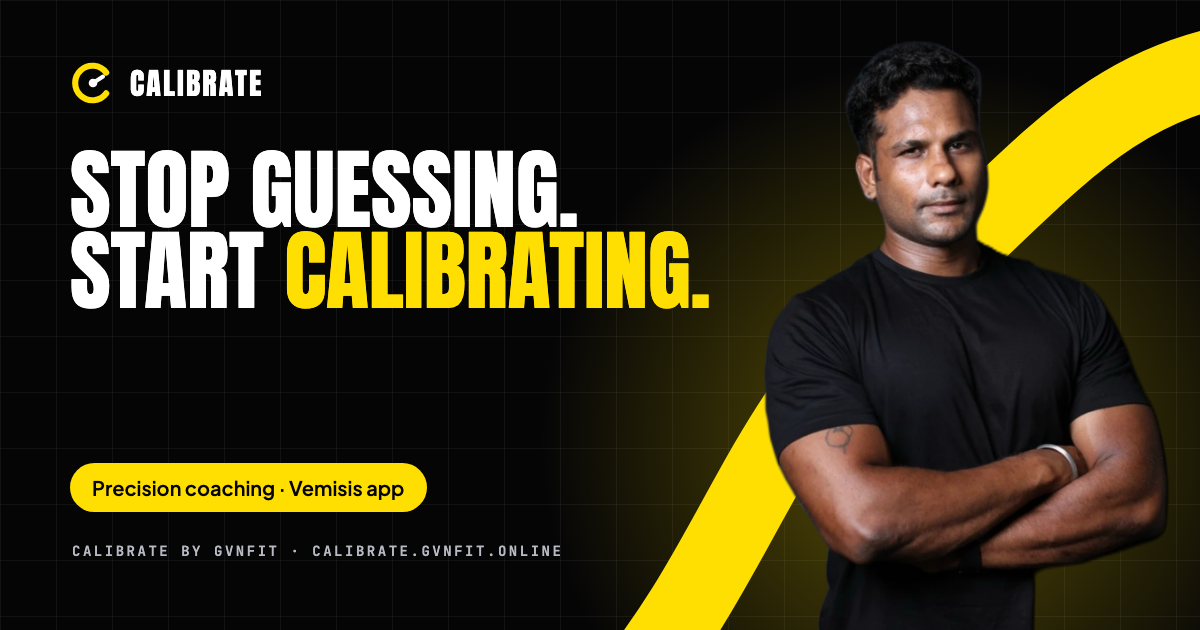
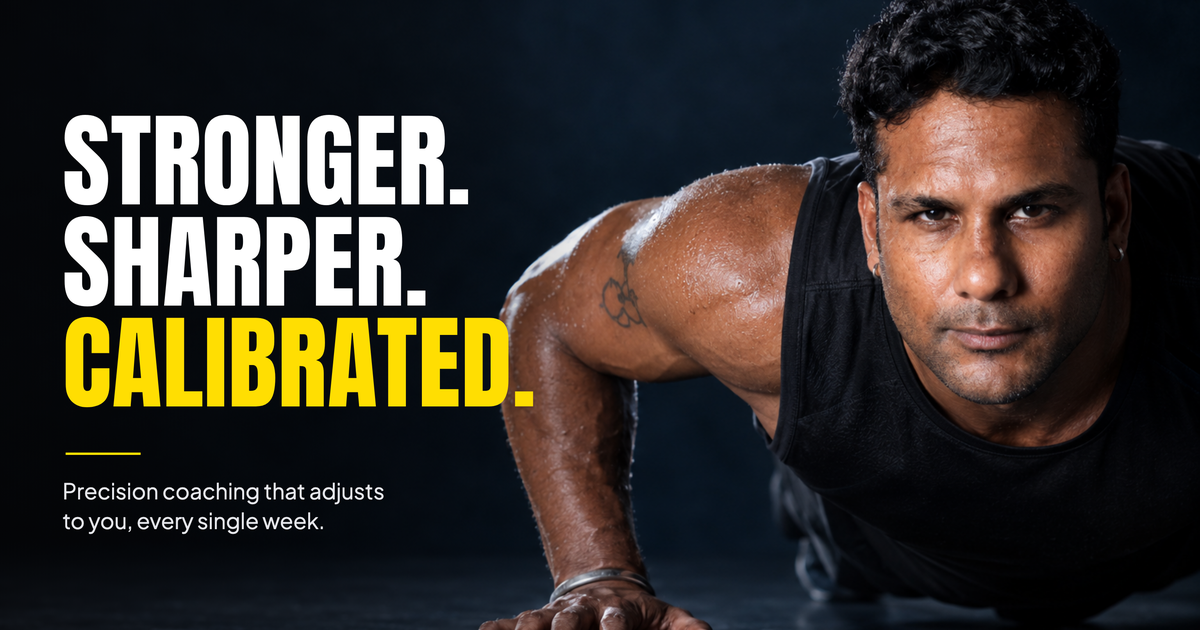
New campaign photos, world cities, App Store link (#3)
* Use the new campaign photos of Guhay across the site

Home coach section, goal cards, /coaches banner, /programmes header,
/pricing persona cards and the social share image now use the
October 2026 photo set (real photos re-lit and re-set, face unchanged).

* Show world cities instead of Indian cities on the coaches page

The city ticker now lists New York, London, Dubai, Singapore, Sydney,
Tokyo, Dublin, Kuala Lumpur and Durban (client countries), and the
coach tag reads 'Coaching clients worldwide'.

* Keep the coaching team visible and add the App Store link

- /coaches falls back to a built-in copy of the team when Supabase is
  unreachable or empty, so the coaches never disappear.
- Coach locations that name an Indian city now read 'Online coaching'
  (head coach: 'Coaching clients worldwide').
- Vemisis App Store link added to the footer, the home app section and
  the /features header.

* Blend the coach photo into the yellow 'Book your free call' panel

New cutout re-lit for a yellow set (face unchanged) with clean edges,
and the dark drop-shadow halo replaced by a soft warm shadow.

---------

diff --git a/lib/team.ts b/lib/team.ts
@@ -1,17 +1,95 @@
 import { supabaseAdmin } from "@/lib/supabase";
 import type { TeamMember } from "@/lib/supabase";
 
+// The site presents CALIBRATE as a worldwide coaching team, so Indian city
+// names are not shown on coach cards. Locations that name one are replaced,
+// and credential lines that only state a city are dropped.
+const INDIAN_PLACE = /\b(chennai|bangalore|bengaluru|mumbai|coimbatore|hyderabad|delhi|pune|kochi|madurai|tamil nadu|karnataka|kerala|maharashtra|india)\b/i;
+
+function worldwide(m: TeamMember): TeamMember {
+  const fallback = m.category === "head_coach" ? "Coaching clients worldwide" : "Online coaching";
+  return {
+    ...m,
+    location: m.location && INDIAN_PLACE.test(m.location) ? fallback : m.location,
+    credentials: m.credentials ? m.credentials.filter((c) => !/^based in\b/i.test(c) || !INDIAN_PLACE.test(c)) : m.credentials,
+  };
+}
+
+// Shown when Supabase is unreachable or returns nothing, so the team never
+// disappears from /coaches. Mirrors the live team_members rows (Oct 2026).
+const FALLBACK_TEAM: TeamMember[] = [
+  {
+    id: "fallback-guhay", category: "head_coach", order_index: 0, name: "Guhayavarman", handle: "@fitguhay",
+    role: "Founder & Head Coach", location: "Coaching clients worldwide", experience: null, specialisation: null,
+    credentials_line: null, description: null,
+    bio: [
+      "I started CALIBRATE because I kept seeing the same pattern: smart, motivated people failing to reach their goals, not from lack of effort, but from lack of the right system. Engineers, founders, product managers putting in the work but getting nowhere.",
+      "The fitness industry profits from confusion. CALIBRATE is built on the opposite principle, the same data-driven frameworks used in precision engineering, applied to body optimisation. Your body is a process. Processes can be optimised.",
+    ],
+    credentials: [
+      "Level 4 Personal Training Certification",
+      "Sports Nutrition Specialist",
+      "DMAIC-certified performance protocol",
+      "Competitive athlete background",
+    ],
+    stats: [
+      { value: "45", label: "Active clients" },
+      { value: "5+", label: "Years coaching" },
+      { value: "10", label: "Countries reached" },
+    ],
+    color: "#FFDE02", initials: "G", photo_url: null, active: true,
+  },
+  {
+    id: "fallback-ashok", category: "trainer", order_index: 1, name: "Ashok", handle: null,
+    role: "Personal Trainer - Certified Strength & Conditioning Coach", location: "Online coaching", experience: "10+ years",
+    specialisation: "Strength & Conditioning", credentials_line: null,
+    description: "Ashok brings over a decade of strength and conditioning expertise to CALIBRATE. As an online trainer, he designs progressive programming for clients across all levels, from foundational strength work to performance-focused conditioning cycles.",
+    bio: null, credentials: null, stats: null, color: null, initials: "A", photo_url: null, active: true,
+  },
+  {
+    id: "fallback-rajavel", category: "trainer", order_index: 2, name: "Rajavel", handle: null,
+    role: "Certified Personal Trainer", location: "Online coaching", experience: "8+ years",
+    specialisation: "Personal Training", credentials_line: null,
+    description: "Rajavel is a certified personal trainer with eight years of experience working with clients across diverse goals and backgrounds. His coaching is grounded in building sustainable habits and consistent progress, no extremes, no shortcuts.",
+    bio: null, credentials: null, stats: null, color: null, initials: "R", photo_url: null, active: true,
+  },
+  {
+    id: "fallback-balaji", category: "trainer", order_index: 3, name: "Balaji", handle: null,
+    role: "NASM CPT - Online Trainer", location: "Online coaching", experience: "5+ years",
+    specialisation: "NASM Certified Training", credentials_line: null,
+    description: "Balaji is NASM-certified and specialises in online coaching, delivering structured, evidence-based programmes remotely. His methodical approach ensures clients get expert-level training regardless of where they are based.",
+    bio: null, credentials: null, stats: null, color: null, initials: "B", photo_url: null, active: true,
+  },
+  {
+    id: "fallback-naren", category: "specialist", order_index: 1, name: "Naren", handle: null,
+    role: "Nutritionist & Fitness Data Analyst", location: "Malaysia", experience: null, specialisation: null,
+    credentials_line: "Nutritionist - Fitness Data Analyst - 10+ years",
+    description: "Naren combines nutritional expertise with data-driven fitness analysis, a rare combination that lets him translate raw client metrics into precise dietary strategies. With over a decade of experience, he handles complex nutrition protocols and performance-level goals.",
+    bio: null, credentials: null, stats: null, color: null, initials: "N", photo_url: "/images/coaches/naren.webp", active: true,
+  },
+  {
+    id: "fallback-karthika", category: "specialist", order_index: 2, name: "Karthika D'Souza", handle: null,
+    role: "Dietician & Clinical Health Analyst", location: "Malaysia", experience: null, specialisation: null,
+    credentials_line: "Registered Dietician - Clinical Health Analyst - 10+ years",
+    description: "Karthika brings clinical-grade expertise to the team, managing medical dietary requirements, health risk analysis, and evidence-based nutrition intervention for clients who need specialist-level dietary support.",
+    bio: null, credentials: null, stats: null, color: null, initials: "K", photo_url: "/images/coaches/karthika-dsouza.webp", active: true,
+  },
+];
+
 export async function getTeamMembers(): Promise<TeamMember[]> {
-  const supabase = supabaseAdmin();
-  const { data, error } = await supabase
-    .from("team_members")
-    .select("*")
-    .eq("active", true)
-    .order("category", { ascending: true })
-    .order("order_index", { ascending: true });
-  if (error) {
-    console.error("[getTeamMembers]", error.message);
-    return [];
+  try {
+    const supabase = supabaseAdmin();
+    const { data, error } = await supabase
+      .from("team_members")
+      .select("*")
+      .eq("active", true)
+      .order("category", { ascending: true })
+      .order("order_index", { ascending: true });
+    if (error) throw new Error(error.message);
+    if (!data || data.length === 0) return FALLBACK_TEAM;
+    return (data as TeamMember[]).map(worldwide);
+  } catch (e) {
+    console.error("[getTeamMembers] using fallback team:", e instanceof Error ? e.message : e);
+    return FALLBACK_TEAM;
   }
-  return (data ?? []) as TeamMember[];
 }

diff --git a/app/coaches/page.tsx b/app/coaches/page.tsx
@@ -1,7 +1,7 @@
 import type { Metadata } from "next";
 export const metadata: Metadata = {
   title: "Coaching Team",
-  description: "Meet the CALIBRATE team, head coach Guhayavarman, certified trainers across Chennai, Bangalore, and Coimbatore, and on-call nutrition specialists. The people behind your protocol.",
+  description: "Meet the CALIBRATE team, head coach Guhayavarman, certified trainers and on-call nutrition specialists, coaching clients in 10 countries. The people behind your protocol.",
   alternates: { canonical: "/coaches" },
   openGraph: {
     ...ogBase,
@@ -57,7 +57,7 @@ function CoachAvatar({ member, glow }: { member: TeamMember; glow?: boolean }) {
   return <span className="co-av" style={style}>{member.initials || member.name.charAt(0)}</span>;
 }
 
-const locations = ["Chennai", "Bangalore", "Hyderabad", "Coimbatore"];
+const locations = ["New York", "London", "Dubai", "Singapore", "Sydney", "Tokyo", "Dublin", "Kuala Lumpur", "Durban"];
 
 const values = [
   {
@@ -85,7 +85,7 @@ const values = [
 export default async function AboutPage() {
   const members = await getTeamMembers();
   const headCoach = members.find((m) => m.category === "head_coach") ?? {
-    name: "Guhayavarman", handle: "@fitguhay", role: "Founder & Head Coach", location: "Chennai, TN",
+    name: "Guhayavarman", handle: "@fitguhay", role: "Founder & Head Coach", location: "Coaching worldwide",
     bio: [] as string[], credentials: [] as string[], stats: [] as { value: string; label: string }[],
     color: "#FFDE02", initials: "G",
   };
@@ -99,12 +99,12 @@ export default async function AboutPage() {
         <section className="co-open" aria-labelledby="co-title">
           <div className="co-open-media">
             <Image
-              src="/media/coach/guhay-090.webp"
+              src="/media/campaign/coach-gym-wide.webp"
               alt={`${headCoach.name}, ${headCoach.role ?? "Head Coach"}`}
               fill
               preload
               sizes="(max-width: 900px) 100vw, 62vw"
-              style={{ objectFit: "cover", objectPosition: "50% 30%" }}
+              style={{ objectFit: "cover", objectPosition: "75% 30%" }}
             />
             <div className="co-open-shade" aria-hidden="true" />
           </div>
@@ -123,7 +123,7 @@ export default async function AboutPage() {
           </div>
         </section>
 
-        <section className="ps" aria-label="Where our coaches are based" style={{ padding: "26px 0", borderTop: "1px solid var(--line)", borderBottom: "1px solid var(--line)", background: "#08080A" }}>
+        <section className="ps" aria-label="Cities where CALIBRATE clients train" style={{ padding: "26px 0", borderTop: "1px solid var(--line)", borderBottom: "1px solid var(--line)", background: "#08080A" }}>
           <div className="mq" style={{ ["--mq-dur" as string]: "30s" }}>
             <div className="mq-track">
               {[...locations, ...locations, ...locations, ...locations].map((l, i) => (

diff --git a/app/pricing/PricingClient.tsx b/app/pricing/PricingClient.tsx
@@ -59,9 +59,9 @@ const inclusions = [
 ];
 
 const profiles = [
-  { role: "Engineers & Developers", detail: "Complex problem-solvers who prefer systems over motivation.", img: "/media/life/me-coffee-laptop.webp" },
-  { role: "Product Managers", detail: "Detail-oriented professionals who want measurable outcomes.", img: "/media/life/me-tablet-review.webp" },
-  { role: "Consultants & Founders", detail: "High travel, high pressure. The protocol adapts to your schedule.", img: "/media/life/me-steps-watch.webp" },
+  { role: "Engineers & Developers", detail: "Complex problem-solvers who prefer systems over motivation.", img: "/media/campaign/persona-engineers-cafe.webp" },
+  { role: "Product Managers", detail: "Detail-oriented professionals who want measurable outcomes.", img: "/media/campaign/persona-pm-office.webp" },
+  { role: "Consultants & Founders", detail: "High travel, high pressure. The protocol adapts to your schedule.", img: "/media/campaign/persona-founders-lounge.webp" },
 ];
 
 const faqs: FaqItem[] = [
@@ -147,7 +147,7 @@ export default function PricingClient() {
             <div className="pp-grid">
               {profiles.map((p, i) => (
                 <article key={p.role} className="pp-card rv" style={{ ["--d" as string]: `${i * 100}ms` }}>
-                  <Image src={p.img} alt="" fill sizes="(max-width: 800px) 100vw, 680px" style={{ objectFit: "cover" }} />
+                  <Image src={p.img} alt="" fill sizes="(max-width: 800px) 100vw, 680px" style={{ objectFit: "cover", objectPosition: "50% 22%" }} />
                   <div className="pp-shade" />
                   <div className="pp-body">
                     <h3 className="display-sm">{p.role}</h3>

diff --git a/components/shared/AppStoreBadge.tsx b/components/shared/AppStoreBadge.tsx
@@ -1,0 +1,29 @@
+import { APP_STORE_URL } from "@/lib/appLinks";
+
+// "Download on the App Store" button for the Vemisis iPhone app.
+export default function AppStoreBadge({ size = "md" }: { size?: "sm" | "md" }) {
+  const sm = size === "sm";
+  return (
+    <a
+      href={APP_STORE_URL}
+      target="_blank"
+      rel="noopener noreferrer"
+      className="asb"
+      aria-label="Download Vemisis on the App Store"
+      style={{
+        display: "inline-flex", alignItems: "center", gap: sm ? 8 : 10,
+        padding: sm ? "7px 14px 7px 11px" : "10px 20px 10px 16px",
+        borderRadius: sm ? 10 : 12, background: "#000", color: "#fff",
+        border: "1px solid rgba(255,255,255,0.28)", textDecoration: "none", lineHeight: 1,
+      }}
+    >
+      <svg width={sm ? 18 : 24} height={sm ? 22 : 29} viewBox="0 0 814 1000" aria-hidden="true" fill="#fff">
+        <path d="M788 341c-6 4-108 62-108 190 0 148 130 200 134 202-1 3-21 72-69 142-43 62-88 124-156 124s-86-40-165-40c-77 0-104 41-166 41s-106-58-156-128C44 790 0 669 0 554c0-185 120-283 239-283 63 0 115 41 155 41 38 0 97-44 169-44 27 0 126 3 192 98l33-25zM554 168c30-35 51-84 51-133 0-7-1-14-2-19-48 2-105 32-140 72-27 31-53 80-53 130 0 8 1 15 2 18 3 1 8 1 13 1 43 0 97-29 129-69z"/>
+      </svg>
+      <span style={{ display: "flex", flexDirection: "column", gap: 2 }}>
+        <span style={{ fontSize: sm ? 9 : 11, letterSpacing: "0.02em", opacity: 0.9 }}>Download on the</span>
+        <span style={{ fontSize: sm ? 15 : 20, fontWeight: 600, letterSpacing: "-0.01em" }}>App Store</span>
+      </span>
+    </a>
+  );
+}

diff --git a/components/landing/FinalCta.tsx b/components/landing/FinalCta.tsx
@@ -29,10 +29,10 @@ export default function FinalCta() {
 
           <div className="fcta-coach">
             <Image
-              src="/media/coach/cut-163.webp"
+              src="/media/campaign/cta-coach-cutout.webp"
               alt="Coach Guhayavarman checking the Vemisis app on his phone"
-              width={739}
-              height={1400}
+              width={753}
+              height={1411}
               sizes="(max-width: 900px) 70vw, 460px"
               style={{ width: "100%", height: "auto" }}
             />
@@ -64,7 +64,7 @@ export default function FinalCta() {
         .fcta-btn:hover svg, .fcta-link:hover svg { transform: translateX(3px); }
         .fcta-link { position: relative; display: inline-flex; align-items: center; gap: 8px; color: #050506; font-weight: 800; font-size: 14.5px; text-decoration: none; border-bottom: 2px solid #050506; padding-bottom: 2px; }
         .fcta-link::before { content: ""; position: absolute; inset: -10px -6px; }
-        .fcta-coach { align-self: end; justify-self: center; width: 100%; max-width: 360px; margin-top: 80px; filter: drop-shadow(0 30px 40px rgba(0,0,0,0.35)); }
+        .fcta-coach { align-self: end; justify-self: center; width: 100%; max-width: 360px; margin-top: 80px; filter: drop-shadow(0 18px 26px rgba(92,70,0,0.28)) drop-shadow(0 2px 4px rgba(60,45,0,0.18)); }
         @media (max-width: 900px) {
           .fcta-panel { grid-template-columns: 1fr; padding: 0 28px; min-height: 0; }
           .fcta-copy { padding: 64px 0 8px; }

diff --git a/components/landing/Goals.tsx b/components/landing/Goals.tsx
@@ -7,22 +7,22 @@ const goals = [
     title: "Fat Loss",
     line: "Drop body fat while holding onto every bit of muscle, without the crash-diet spiral.",
     points: ["Custom calorie and macro targets", "Strength-preserving training split", "Weekly check-in adjustments"],
-    img: "/media/life/me-park-run.webp",
-    alt: "Coach running outdoors at sunrise",
+    img: "/media/campaign/goal-fatloss-rooftop.webp",
+    alt: "Coach Guhayavarman on a rooftop at sunrise",
   },
   {
     title: "Muscle Gain",
     line: "A structured hypertrophy programme with progressive overload tracked every session.",
     points: ["Progressive overload tracking", "Surplus calibrated to your metabolism", "Video form checks on request"],
-    img: "/media/life/me-bench.webp",
-    alt: "Coach training on the bench press",
+    img: "/media/campaign/goal-muscle-pushup.webp",
+    alt: "Coach Guhayavarman holding a low push-up",
   },
   {
     title: "Recomposition",
     line: "Lose fat and build muscle at the same time. The hardest goal to programme, and the one CALIBRATE was built for.",
     points: ["Nutrient timing around training", "Bi-weekly composition scans", "Slowest, most rewarding path"],
-    img: "/media/life/me-deadlift.webp",
-    alt: "Coach performing a heavy deadlift",
+    img: "/media/campaign/goal-recomp-gymfloor.webp",
+    alt: "Coach Guhayavarman standing on the gym floor",
   },
 ];
 

diff --git a/components/landing/Coach.tsx b/components/landing/Coach.tsx
@@ -23,8 +23,8 @@ export default function Coach() {
           <div className="coach-frame" aria-hidden="true" />
           <div className="coach-img">
             <Image
-              src="/media/coach/guhay-016.webp"
-              alt="Guhayavarman, founder and head coach of CALIBRATE, in a black t-shirt with arms crossed"
+              src="/media/campaign/about-portrait.webp"
+              alt="Guhayavarman, founder and head coach of CALIBRATE, in a black t-shirt in warm window light"
               fill
               sizes="(max-width: 900px) 90vw, 520px"
               style={{ objectFit: "cover", objectPosition: "50% 20%" }}
@@ -32,7 +32,7 @@ export default function Coach() {
           </div>
           <div className="float-card coach-tag bob-2">
             <Image src="/media/brand/gvnfit-wordmark-white.png" alt="Guhayavarman Fitness" width={150} height={19} style={{ height: "auto" }} />
-            <p className="mono c-muted" style={{ marginTop: 8 }}>Chennai, Tamil Nadu</p>
+            <p className="mono c-muted" style={{ marginTop: 8 }}>Coaching clients worldwide</p>
           </div>
         </div>
 

diff --git a/app/features/page.tsx b/app/features/page.tsx
@@ -1,4 +1,5 @@
 import type { Metadata } from "next";
+import { APP_STORE_URL } from "@/lib/appLinks";
 import Image from "next/image";
 import Navigation from "@/components/layout/Navigation";
 import Footer from "@/components/layout/Footer";
@@ -104,7 +105,7 @@ export default function FeaturesPage() {
           lead="Vemisis is the training app built for CALIBRATE clients. Open it, see today's session and targets, log in seconds, and let your coach handle the adjustments."
           ctas={[
             { label: "Book your free call", href: "/book" },
-            { label: "How the method works", href: "/how-it-works", variant: "secondary" },
+            { label: "Download on the App Store", href: APP_STORE_URL, variant: "secondary" },
           ]}
           visual={
             <div className="ft-hero-vis">

diff --git a/components/landing/AppSection.tsx b/components/landing/AppSection.tsx
@@ -2,6 +2,7 @@
 
 import Image from "next/image";
 import Link from "next/link";
+import AppStoreBadge from "@/components/shared/AppStoreBadge";
 import { useRef } from "react";
 import { motion, useReducedMotion, useScroll, useTransform } from "framer-motion";
 import { Arrow, Device } from "./ui";
@@ -103,7 +104,8 @@ export default function AppSection() {
           ))}
         </div>
 
-        <div style={{ display: "flex", justifyContent: "center", marginTop: 48 }}>
+        <div style={{ display: "flex", justifyContent: "center", alignItems: "center", gap: 16, flexWrap: "wrap", marginTop: 48 }}>
+          <AppStoreBadge />
           <Link href="/features" className="btn-secondary">See everything inside Vemisis <Arrow /></Link>
         </div>
       </div>

diff --git a/components/layout/Footer.tsx b/components/layout/Footer.tsx
@@ -1,4 +1,5 @@
 import Link from "next/link";
+import AppStoreBadge from "@/components/shared/AppStoreBadge";
 import Image from "next/image";
 import Logo from "./Logo";
 import FooterWord from "./FooterWord";
@@ -53,6 +54,7 @@ export default function Footer() {
                 <p className="mono c-accent" style={{ marginBottom: 4 }}>The training app</p>
                 <p style={{ fontSize: 14, fontWeight: 700, color: "#fff" }}>Vemisis, included with every plan</p>
                 <p style={{ fontSize: 12.5, color: "var(--text-muted)" }}>Built for iPhone and Android</p>
+                <div style={{ marginTop: 12 }}><AppStoreBadge size="sm" /></div>
               </div>
             </div>
           </div>

diff --git a/app/programmes/page.tsx b/app/programmes/page.tsx
@@ -40,7 +40,7 @@ export default function ProgrammesPage() {
           visual={
             <figure className="pg-hero-visual">
               <div className="pg-hero-img">
-                <Image src="/media/life/me-chalk.webp" alt="Guhay chalking up before a heavy lift" fill preload sizes="(max-width: 900px) 90vw, 460px" style={{ objectFit: "cover" }} />
+                <Image src="/media/campaign/programmes-jump.webp" alt="Coach Guhayavarman mid jump in a dark studio" fill preload sizes="(max-width: 900px) 90vw, 460px" style={{ objectFit: "cover" }} />
               </div>
             </figure>
           }

diff --git a/lib/appLinks.ts b/lib/appLinks.ts
@@ -1,0 +1,3 @@
+// Store links for the Vemisis app. Add the Google Play link here once the
+// Android app is public.
+export const APP_STORE_URL = "https://apps.apple.com/in/app/vemisis/id6793409130";
